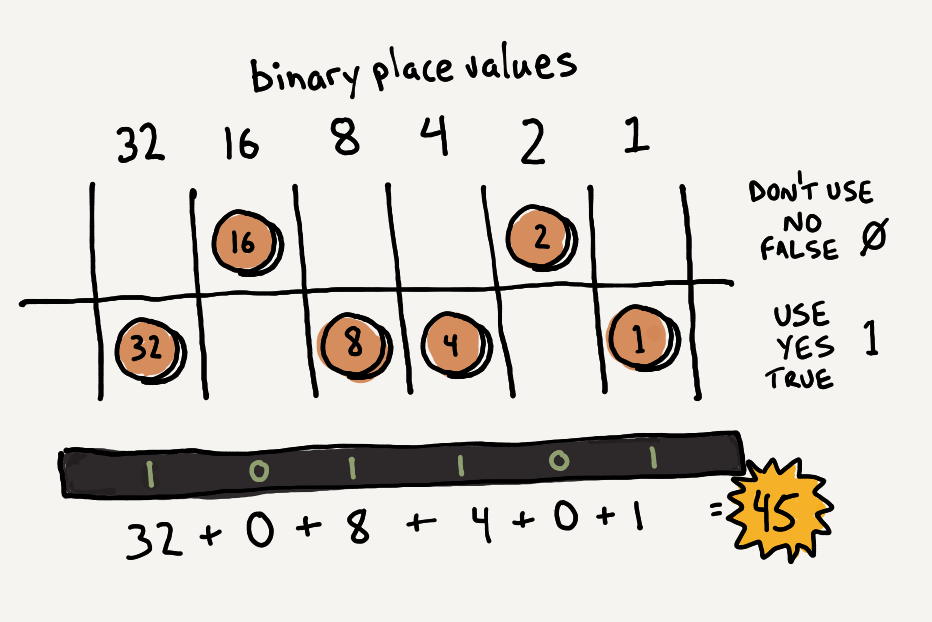
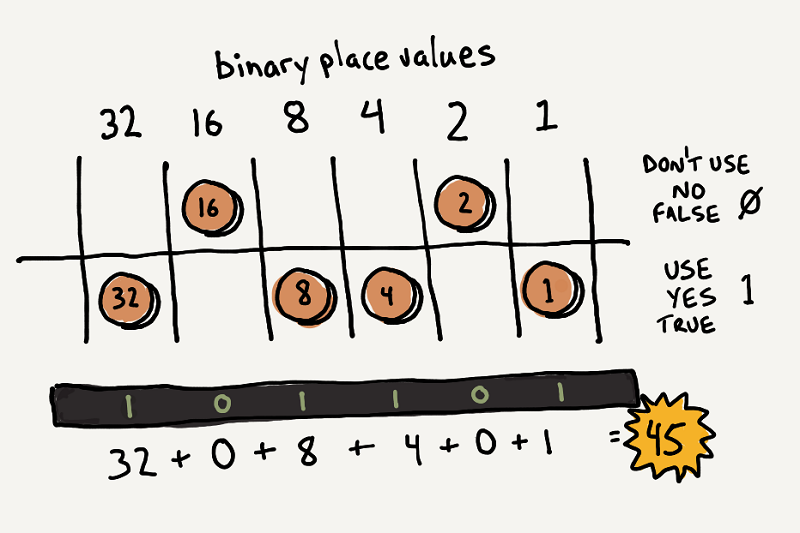
Resize images, fix spelling, fix image link.

Changed region(s): [[0.8438, 0.8705, 0.875, 0.9006], [0.7812, 0.7505, 0.8125, 0.7805], [0.7188, 0.5704, 0.75, 0.6004]]

diff --git a/docs/courses/csintro/binary/project.md b/docs/courses/csintro/binary/project.md
@@ -37,9 +37,10 @@ An implementation of the Binary Cash Register
 * To make the strap of the wristwatch, put 2 pieces of duct tape back-to-back, and use velcro tabs as the fasteners
 
 ![Binary wrist watch project](/static/courses/csintro/binary/binary-wrist-watch.jpg)
+
 To make the strap of the wristwatch, you can put two pieces of duct tape back-to-back, and use Velcro tabs as the fasteners.
 
-![Holder](/static/courses/csintro/conditionals/holder.jpg)
+![Holder](/static/courses/csintro/binary/microbit-holder.jpg)
 This is a holder that allows the micro:bit to be worn on the wrist.
 
 ![Wooden structure to hold the micro:bit on the wrist](/static/courses/csintro/conditionals/microbit-holder.jpg)
@@ -51,7 +52,7 @@ Have students write a reflection of about 150–300 words, addressing the follow
 * Describe what the physical component of yur micro:bit project was (e.g., an armband, a cardboard mount, a holder, etc.)
 * How well did your prototype work? What were you happy with? What would you change? 
 * What was something that was surprising to you about the process of creating this project?
-* Describe one way in which your prohect differed from the example that was given. How would you recognize it as your own?
+* Describe one way in which your project differed from the example that was given. How would you recognize it as your own?
 
 ## Assessment
 
